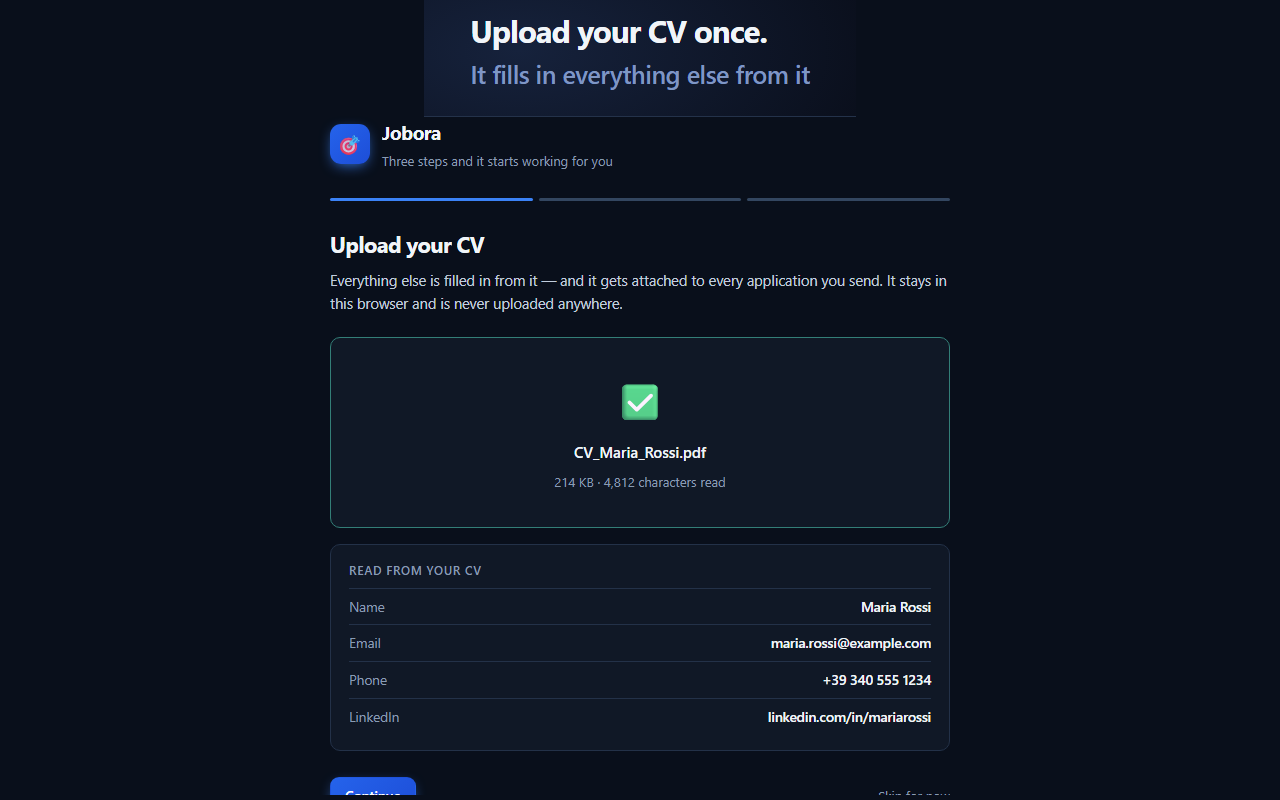
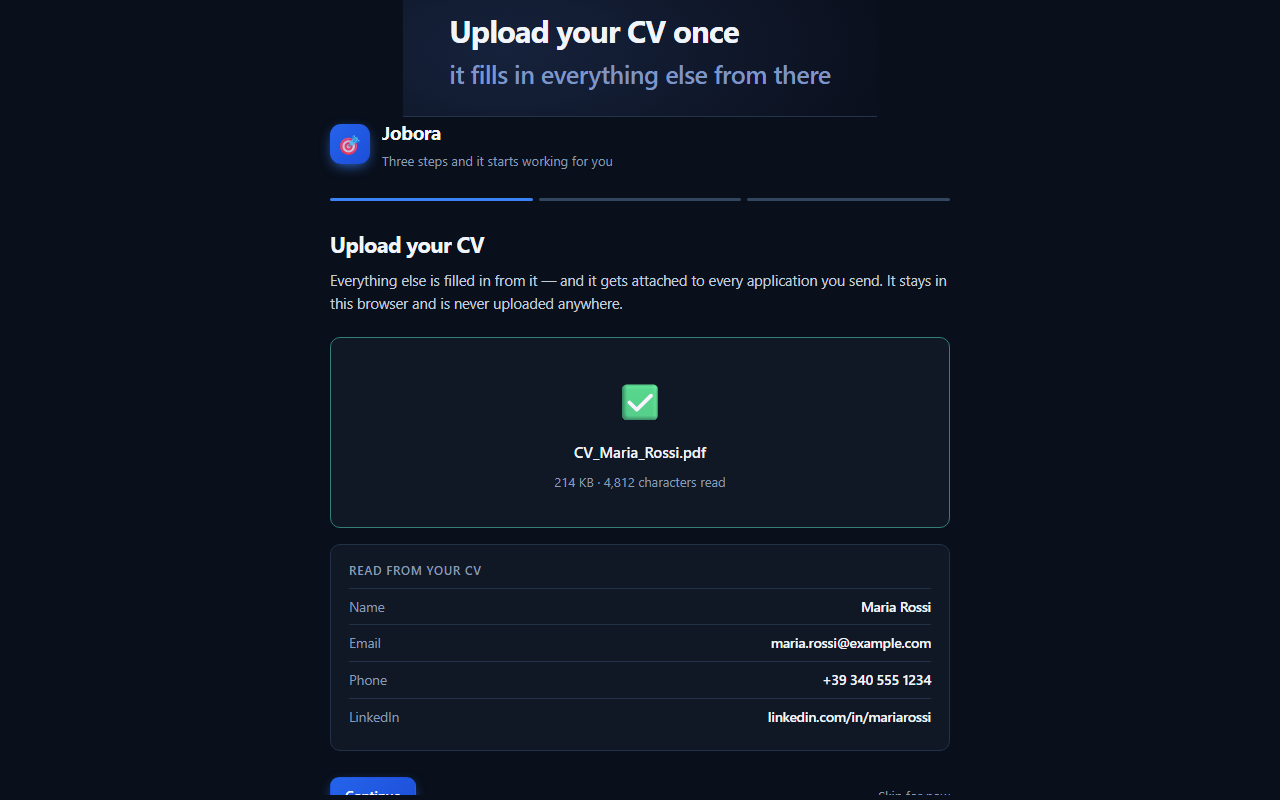
Rewrite the listing so it reads like a person wrote it
The copy had the shape of something generated. Six section headings drawn with
box characters, 103 of them, which no real listing uses and which break in a
font that lacks them. Sentences averaging 92 characters with barely any
variation. Four paragraphs opening with "Crucially" or "Optionally". Em dashes
sprinkled evenly across every surface, in the store text, the policy, the
landing page, the promo tiles and the screenshot captions alike.

None of that is wrong on its own. Together, across every surface at once, it
reads as machine-made before anyone works out why, and a job seeker deciding
whether to trust software with their CV notices.

The description is 3,241 characters now instead of 4,055, with plain headings,
no box drawing, and sentences that run from 13 to 217 characters because that is
what happens when someone writes rather than fills a template. The captions lost
the dashes that were joining two lines which were already two lines. The privacy
policy stopped stacking twenty source names into one sentence with semicolons
and lists them in three short groups instead.

What stayed: the em dash in "Jobora — automatic job search", because that is the
product's name as the manifest declares it.

Changed region(s): [[0.3125, 0.0, 0.6562, 0.125]]

diff --git a/docs/privacy.html b/docs/privacy.html
@@ -20,21 +20,25 @@ a{color:#2f6fe0}strong{color:#111}
 <p>There is no Jobora server and no Jobora account. Your CV, your personal details and your application history are stored by your browser, on your computer, and are never sent to us. We have no way of reading them.</p>
 <h2>What is stored, and where</h2>
 <p>All of the following is kept in your browser's local extension storage (<code>chrome.storage.local</code>) on your device:</p>
-<ul><li>Your CV file and the text extracted from it</li><li>Your name, email, phone, location, LinkedIn and GitHub links, work authorization status and notice period</li><li>Your profile photo, headline and the text you write about yourself. The photo is resized and stored on your device; it is never attached to an application</li><li>Your search preferences: job titles, locations, industries, salary floor, seniority, filters</li><li>Job postings retrieved from public job boards</li><li>Your applications, cover letters and their status history</li><li>An Anthropic API key, if you choose to add one</li><li>An Adzuna application ID and key, if you choose to add your own</li></ul>
+<ul><li>Your CV file and the text extracted from it</li><li>Your name, email, phone, location, LinkedIn and GitHub links, work authorization status and notice period</li><li>Your profile photo, headline and the text you write about yourself. The photo is resized and stored on your device. It is never attached to an application</li><li>Your search preferences: job titles, locations, industries, salary floor, seniority, filters</li><li>Job postings retrieved from public job boards</li><li>Your applications, cover letters and their status history</li><li>An Anthropic API key, if you choose to add one</li><li>An Adzuna application ID and key, if you choose to add your own</li></ul>
 <p>Uninstalling the extension deletes all of it. You can also clear it at any time from the extension's settings or your browser's site data controls.</p>
 <h2>What leaves your device</h2>
 <p>Jobora makes network requests to three kinds of destination, and to nothing else.</p>
-<p><strong>1. Public job listing APIs and pages.</strong> To find jobs, the extension requests publicly available listings from the applicant tracking systems Greenhouse, Lever, Ashby, Workable, SmartRecruiters, Recruitee, Workday, Teamtailor and Breezy; from the job boards Remotive, Arbeitnow, RemoteOK, Jobicy, Himalayas, WorkingNomads, The Muse, We Work Remotely, Cryptocurrency Jobs, Landing.jobs and DevITjobs; and from the Greek sites psf.org.gr, skywalker.gr and ordino.gr. These are ordinary read requests for postings that anyone can see without logging in. <strong>No personal data of yours is included</strong> — not your CV, not your name, not your preferences. The matching happens on your computer after the listings arrive.</p>
+<p><strong>1. Public job listing APIs and pages.</strong> To find jobs, the extension requests publicly available listings from three groups of source.</p>
+<p>Applicant tracking systems: Greenhouse, Lever, Ashby, Workable, SmartRecruiters, Recruitee, Workday, Teamtailor, Breezy.</p>
+<p>Job boards: Remotive, Arbeitnow, RemoteOK, Jobicy, Himalayas, WorkingNomads, The Muse, We Work Remotely, Cryptocurrency Jobs, Landing.jobs, DevITjobs.</p>
+<p>National sites: psf.org.gr, skywalker.gr, ordino.gr.</p>
+<p>These are ordinary read requests for postings that anyone can see without logging in. <strong>No personal data of yours is included.</strong> Not your CV, not your name, not your preferences. The matching happens on your computer after the listings arrive.</p>
 <p>One exception, and only if you set it up: <strong>Adzuna</strong>. If you enter your own Adzuna application ID and key in Settings, requests to <code>api.adzuna.com</code> carry those credentials and the country codes you chose to search, because that is how their API identifies the caller. Your CV, name and contact details are still not sent. Without a key, no request is made to Adzuna at all.</p>
 <p><strong>2. Currency exchange rates.</strong> Once a day the extension requests published exchange rates from <code>open.er-api.com</code>, so that a minimum salary you set in one currency can be compared against a job advertised in another. The request has no parameters and carries no data about you.</p>
-<p><strong>3. Anthropic's API — only if you opt in.</strong> If, and only if, you enter your own Anthropic API key in Settings, Jobora sends the text of your CV, anything you wrote about yourself in your profile, and the description of the specific job to <code>api.anthropic.com</code> in order to write a cover letter for that job. This happens once per application, at your request. Without a key, cover letters are produced from a local template and nothing is sent. That traffic is governed by <a href="https://www.anthropic.com/legal/privacy">Anthropic's privacy policy</a>.</p>
+<p><strong>3. Anthropic's API, only if you opt in.</strong> If, and only if, you enter your own Anthropic API key in Settings, Jobora sends the text of your CV, anything you wrote about yourself in your profile, and the description of the specific job to <code>api.anthropic.com</code> in order to write a cover letter for that job. This happens once per application, at your request. Without a key, cover letters are produced from a local template and nothing is sent. That traffic is governed by <a href="https://www.anthropic.com/legal/privacy">Anthropic's privacy policy</a>.</p>
 <p>Nothing else is transmitted anywhere. There is no analytics, no telemetry, no error reporting, no advertising and no tracking of any kind.</p>
-<h2>The save button on social networks — off unless you turn it on</h2>
+<h2>The save button on social networks, off unless you turn it on</h2>
 <p>Some jobs are only ever posted as a post: a group on Facebook, a thread on Reddit, an update on a page. Jobora can show a "Save to Jobora" button while you are reading such a post, so you can keep it alongside the listings it found itself.</p>
 <p>This is <strong>switched off by default</strong>. Turning it on asks Chrome for permission to run on facebook.com, instagram.com, reddit.com, x.com, twitter.com and threads.net; turning it off withdraws that permission again. Until you turn it on, the extension has no access to those sites at all.</p>
 <p>While it is on, the button reads the text of the post you are looking at only after <strong>you</strong> press it, and shows you exactly what it will keep, in a form you can correct first. Nothing is read in the background, nothing is collected while you browse, and nothing is sent anywhere: what you save is stored on your device like any other listing.</p>
 <h2>Form filling</h2>
-<p>When you press "Fill with Jobora" on an application page, the extension reads that page's form — the labels and field names, so it knows which box wants your phone number and which wants your city — and then writes your details in and attaches your CV file. Both the reading and the writing happen inside your browser, at the moment you press the button. The page's contents are not stored and are not sent anywhere.</p>
+<p>When you press "Fill with Jobora" on an application page, the extension reads that page's form. It looks at the labels and field names, so it knows which box wants your phone number and which wants your city. Then it writes your details in and attaches your CV file. Both the reading and the writing happen inside your browser, at the moment you press the button. The page's contents are not stored and are not sent anywhere.</p>
 <p>The data goes to the employer only when <strong>you</strong> press the employer's own Submit button. Jobora never submits a form on your behalf. Questions it cannot answer safely, such as dropdowns about work authorization, are deliberately left untouched and counted for you.</p>
 <h2>Data we sell or share</h2>
 <p>None. We do not sell your data, transfer it to third parties, or use it for anything other than the function described above. We do not use it for advertising, credit assessment or lending.</p>

diff --git a/store/PRIVACY.html b/store/PRIVACY.html
@@ -20,21 +20,25 @@ a{color:#2f6fe0}strong{color:#111}
 <p>There is no Jobora server and no Jobora account. Your CV, your personal details and your application history are stored by your browser, on your computer, and are never sent to us. We have no way of reading them.</p>
 <h2>What is stored, and where</h2>
 <p>All of the following is kept in your browser's local extension storage (<code>chrome.storage.local</code>) on your device:</p>
-<ul><li>Your CV file and the text extracted from it</li><li>Your name, email, phone, location, LinkedIn and GitHub links, work authorization status and notice period</li><li>Your profile photo, headline and the text you write about yourself. The photo is resized and stored on your device; it is never attached to an application</li><li>Your search preferences: job titles, locations, industries, salary floor, seniority, filters</li><li>Job postings retrieved from public job boards</li><li>Your applications, cover letters and their status history</li><li>An Anthropic API key, if you choose to add one</li><li>An Adzuna application ID and key, if you choose to add your own</li></ul>
+<ul><li>Your CV file and the text extracted from it</li><li>Your name, email, phone, location, LinkedIn and GitHub links, work authorization status and notice period</li><li>Your profile photo, headline and the text you write about yourself. The photo is resized and stored on your device. It is never attached to an application</li><li>Your search preferences: job titles, locations, industries, salary floor, seniority, filters</li><li>Job postings retrieved from public job boards</li><li>Your applications, cover letters and their status history</li><li>An Anthropic API key, if you choose to add one</li><li>An Adzuna application ID and key, if you choose to add your own</li></ul>
 <p>Uninstalling the extension deletes all of it. You can also clear it at any time from the extension's settings or your browser's site data controls.</p>
 <h2>What leaves your device</h2>
 <p>Jobora makes network requests to three kinds of destination, and to nothing else.</p>
-<p><strong>1. Public job listing APIs and pages.</strong> To find jobs, the extension requests publicly available listings from the applicant tracking systems Greenhouse, Lever, Ashby, Workable, SmartRecruiters, Recruitee, Workday, Teamtailor and Breezy; from the job boards Remotive, Arbeitnow, RemoteOK, Jobicy, Himalayas, WorkingNomads, The Muse, We Work Remotely, Cryptocurrency Jobs, Landing.jobs and DevITjobs; and from the Greek sites psf.org.gr, skywalker.gr and ordino.gr. These are ordinary read requests for postings that anyone can see without logging in. <strong>No personal data of yours is included</strong> — not your CV, not your name, not your preferences. The matching happens on your computer after the listings arrive.</p>
+<p><strong>1. Public job listing APIs and pages.</strong> To find jobs, the extension requests publicly available listings from three groups of source.</p>
+<p>Applicant tracking systems: Greenhouse, Lever, Ashby, Workable, SmartRecruiters, Recruitee, Workday, Teamtailor, Breezy.</p>
+<p>Job boards: Remotive, Arbeitnow, RemoteOK, Jobicy, Himalayas, WorkingNomads, The Muse, We Work Remotely, Cryptocurrency Jobs, Landing.jobs, DevITjobs.</p>
+<p>National sites: psf.org.gr, skywalker.gr, ordino.gr.</p>
+<p>These are ordinary read requests for postings that anyone can see without logging in. <strong>No personal data of yours is included.</strong> Not your CV, not your name, not your preferences. The matching happens on your computer after the listings arrive.</p>
 <p>One exception, and only if you set it up: <strong>Adzuna</strong>. If you enter your own Adzuna application ID and key in Settings, requests to <code>api.adzuna.com</code> carry those credentials and the country codes you chose to search, because that is how their API identifies the caller. Your CV, name and contact details are still not sent. Without a key, no request is made to Adzuna at all.</p>
 <p><strong>2. Currency exchange rates.</strong> Once a day the extension requests published exchange rates from <code>open.er-api.com</code>, so that a minimum salary you set in one currency can be compared against a job advertised in another. The request has no parameters and carries no data about you.</p>
-<p><strong>3. Anthropic's API — only if you opt in.</strong> If, and only if, you enter your own Anthropic API key in Settings, Jobora sends the text of your CV, anything you wrote about yourself in your profile, and the description of the specific job to <code>api.anthropic.com</code> in order to write a cover letter for that job. This happens once per application, at your request. Without a key, cover letters are produced from a local template and nothing is sent. That traffic is governed by <a href="https://www.anthropic.com/legal/privacy">Anthropic's privacy policy</a>.</p>
+<p><strong>3. Anthropic's API, only if you opt in.</strong> If, and only if, you enter your own Anthropic API key in Settings, Jobora sends the text of your CV, anything you wrote about yourself in your profile, and the description of the specific job to <code>api.anthropic.com</code> in order to write a cover letter for that job. This happens once per application, at your request. Without a key, cover letters are produced from a local template and nothing is sent. That traffic is governed by <a href="https://www.anthropic.com/legal/privacy">Anthropic's privacy policy</a>.</p>
 <p>Nothing else is transmitted anywhere. There is no analytics, no telemetry, no error reporting, no advertising and no tracking of any kind.</p>
-<h2>The save button on social networks — off unless you turn it on</h2>
+<h2>The save button on social networks, off unless you turn it on</h2>
 <p>Some jobs are only ever posted as a post: a group on Facebook, a thread on Reddit, an update on a page. Jobora can show a "Save to Jobora" button while you are reading such a post, so you can keep it alongside the listings it found itself.</p>
 <p>This is <strong>switched off by default</strong>. Turning it on asks Chrome for permission to run on facebook.com, instagram.com, reddit.com, x.com, twitter.com and threads.net; turning it off withdraws that permission again. Until you turn it on, the extension has no access to those sites at all.</p>
 <p>While it is on, the button reads the text of the post you are looking at only after <strong>you</strong> press it, and shows you exactly what it will keep, in a form you can correct first. Nothing is read in the background, nothing is collected while you browse, and nothing is sent anywhere: what you save is stored on your device like any other listing.</p>
 <h2>Form filling</h2>
-<p>When you press "Fill with Jobora" on an application page, the extension reads that page's form — the labels and field names, so it knows which box wants your phone number and which wants your city — and then writes your details in and attaches your CV file. Both the reading and the writing happen inside your browser, at the moment you press the button. The page's contents are not stored and are not sent anywhere.</p>
+<p>When you press "Fill with Jobora" on an application page, the extension reads that page's form. It looks at the labels and field names, so it knows which box wants your phone number and which wants your city. Then it writes your details in and attaches your CV file. Both the reading and the writing happen inside your browser, at the moment you press the button. The page's contents are not stored and are not sent anywhere.</p>
 <p>The data goes to the employer only when <strong>you</strong> press the employer's own Submit button. Jobora never submits a form on your behalf. Questions it cannot answer safely, such as dropdowns about work authorization, are deliberately left untouched and counted for you.</p>
 <h2>Data we sell or share</h2>
 <p>None. We do not sell your data, transfer it to third parties, or use it for anything other than the function described above. We do not use it for advertising, credit assessment or lending.</p>

diff --git a/docs/index.html b/docs/index.html
@@ -9,13 +9,13 @@
 <meta property="og:type" content="website">
 <meta property="og:url" content="https://georgasp.github.io/jobora/">
 <meta property="og:title" content="Jobora — Automatic Job Hunting">
-<meta property="og:description" content="Upload your CV once. Jobora searches 15 job boards and company career pages on 9 ATS platforms twice a day, scores what fits you (0–100), writes cover letters and fills application forms — all in your browser. Chrome extension + Python, zero dependencies.">
+<meta property="og:description" content="Upload your CV once. Jobora searches 15 job boards and company career pages on 9 ATS platforms twice a day, scores what fits you out of 100, writes cover letters and fills in application forms. All of it in your browser, with no account and no server.">
 <meta property="og:image" content="https://georgasp.github.io/jobora/og.png">
 <meta property="og:image:width" content="1200">
 <meta property="og:image:height" content="630">
 <meta name="twitter:card" content="summary_large_image">
 <meta name="twitter:title" content="Jobora — Automatic Job Hunting">
-<meta name="twitter:description" content="Searches 15 job boards + 9 ATS platforms, scores what fits, writes cover letters & fills forms — all in your browser. Zero dependencies.">
+<meta name="twitter:description" content="Searches 15 job boards and 9 ATS platforms, scores what fits, writes cover letters and fills in forms. All in your browser.">
 <meta name="twitter:image" content="https://georgasp.github.io/jobora/og.png">
 <style>
   :root {
@@ -63,24 +63,24 @@
 <main>
   <div class="mark">🎯</div>
   <h1>Jobora</h1>
-  <p class="lead">A browser extension that searches job boards for you, scores every
-  posting against what you actually want, and fills in the application forms.</p>
+  <p class="lead">A browser extension that searches job boards for you, scores
+  every posting against what you actually want, and fills in the application
+  forms. You still press Submit.</p>
 
   <h2>How it works</h2>
   <ul>
     <li>Reads your CV once and fills in the rest from it.</li>
     <li>Searches twice a day across job boards and company career pages.</li>
-    <li>Scores each posting out of 100 — title, location, salary, freshness — and
-        shows you why, so it is never a black box.</li>
+    <li>Scores each posting out of 100 on title, location, salary and how recent
+        it is, and shows you the working. It is never a black box.</li>
     <li>Prepares the application and fills the form. You review it and press submit.</li>
   </ul>
 
   <h2>What it does not do</h2>
   <div class="card">
-    There is no account, no server, and no analytics. Your CV and your
-    applications are stored on your own machine. The only thing that can ever
-    leave is a cover-letter request to Anthropic — and only if you choose to add
-    your own API key.
+    No account, no server, no analytics. Your CV and your applications are
+    stored on your own machine. One thing can leave: a cover-letter request to
+    Anthropic, and only if you choose to add your own API key.
   </div>
 
   <h2>Links</h2>

diff --git a/store/screenshots/4-onboarding.html b/store/screenshots/4-onboarding.html
@@ -57,7 +57,7 @@ aside { height: 668px !important; }
 </style>
 </head>
 <body>
-<div class="shot-band"><b>Upload your CV once.</b><span>It fills in everything else from it</span></div>
+<div class="shot-band"><b>Upload your CV once</b><span>it fills in everything else from there</span></div>
 <div class="ob">
   <div class="top"><div class="mark">🎯</div>
     <div><b>Jobora</b><span>Three steps and it starts working for you</span></div></div>

diff --git a/store/screenshots/5-profile.html b/store/screenshots/5-profile.html
@@ -36,7 +36,7 @@ aside { height: 668px !important; }
 </style>
 </head>
 <body>
-<div class="shot-band"><b>Your CV, your words, your photo —</b><span>kept on your own computer</span></div>
+<div class="shot-band"><b>Your CV, your words, your photo</b><span>all of it stays on your computer</span></div>
 <div class="app">
 <aside>
   <div class="brand"><div class="mark">🎯</div><div><b>Jobora</b><small>automatic job search</small></div></div>

diff --git a/store/screenshots/1-matches.html b/store/screenshots/1-matches.html
@@ -38,7 +38,7 @@ aside { height: 668px !important; }
 </style>
 </head>
 <body>
-<div class="shot-band"><b>Every job scored out of 100 —</b><span>and it always tells you why</span></div>
+<div class="shot-band"><b>Every job scored out of 100</b><span>and it shows you every reason why</span></div>
 <div class="app">
 <aside>
   <div class="brand"><div class="mark">🎯</div><div><b>Jobora</b><small>automatic job search</small></div></div>

diff --git a/store/screenshots/2-pipeline.html b/store/screenshots/2-pipeline.html
@@ -31,7 +31,7 @@ aside { height: 668px !important; }
 </style>
 </head>
 <body>
-<div class="shot-band"><b>Every application in one place,</b><span>from prepared to offer</span></div>
+<div class="shot-band"><b>One board, from prepared to offer</b><span>drag a card to move it along</span></div>
 <div class="app">
 <aside>
   <div class="brand"><div class="mark">🎯</div><div><b>Jobora</b><small>automatic job search</small></div></div>

diff --git a/store/screenshots/3-autofill.html b/store/screenshots/3-autofill.html
@@ -55,7 +55,7 @@ aside { height: 668px !important; }
 </style>
 </head>
 <body>
-<div class="shot-band"><b>One click fills the form</b><span>and attaches your CV as a real file</span></div>
+<div class="shot-band"><b>One click fills the whole form</b><span>and attaches your CV as a real file</span></div>
 <div class="page">
   <div class="crumb">Remote.com › Careers › Sales</div>
   <h1>Senior Account Manager — EMEA</h1>

diff --git a/store/promo/marquee.html b/store/promo/marquee.html
@@ -154,8 +154,8 @@
 
 <h1>Upload your CV once.</h1>
 
-<div class="sub">It searches twice a day, scores every posting out of 100 and tells
-you why, then fills in the application form. You press Submit.</div>
+<div class="sub">It searches twice a day and scores every posting out of 100.
+Then it fills in the application form. You press Submit.</div>
 
 <div class="pills">
   <b>24 job sources</b>

diff --git a/docs/og.html b/docs/og.html
@@ -190,7 +190,7 @@
 
 <h1>Automatic<br>job hunting</h1>
 
-<div class="sub">Searches, scores &amp; applies — all in your browser</div>
+<div class="sub">It searches, it scores, it applies. You stay in your browser.</div>
 
 <div class="pills">
   <b>24 job sources</b>

diff --git a/store/promo/small.html b/store/promo/small.html
@@ -142,7 +142,7 @@
 
 <h1>Automatic<br>job hunting</h1>
 
-<div class="sub">Searches, scores &amp; applies for you</div>
+<div class="sub">It searches so you do not have to</div>
 
 <span class="pill">24 job sources</span>
 

diff --git a/store/LISTING.md b/store/LISTING.md
@@ -21,86 +21,84 @@ Finds jobs that match you every day and fills in the application forms for you. 
 
 **Detailed description**
 ```
-Job hunting is 90% repetitive admin. Jobora does that part.
+Job hunting is mostly admin. Jobora does that part.
 
-Upload your CV once. From then on Jobora searches twice a day, ranks what
-actually fits you, writes the cover letter, and fills in the application form —
-including attaching your CV as a real file. You review and press Submit.
+Upload your CV once. After that it searches twice a day, ranks what actually
+fits, drafts the cover letter, and fills in the application form with your CV
+attached as a real file. You check it and press Submit.
 
-── HOW IT WORKS ──────────────────────────────────────────
 
-1. Upload your CV. Jobora reads it and fills in your name, email, phone and
-   LinkedIn automatically, then suggests job titles based on your experience.
+HOW IT WORKS
 
-2. Say what you want. Job titles, countries or "Remote", salary floor,
-   industries, seniority. Every filter is yours to set, and every change saves
-   itself as you type.
+1. Upload your CV. Jobora reads your name, email, phone and LinkedIn out of it,
+   then suggests job titles based on what you have done.
 
-3. It searches on its own. Twice a day in the background, across public job
-   boards and thousands of company career pages. You get a notification and a
-   badge count when new roles match.
+2. Say what you want: job titles, countries or "Remote", a salary floor,
+   industries, seniority. Every change saves itself as you type.
 
-4. Apply in about fifteen seconds. Press Apply, the posting opens, press "Fill
-   with Jobora", check the form, submit.
+3. It searches on its own, twice a day, in the background. When something new
+   matches, you get a notification and a number on the toolbar icon.
 
-5. Track everything. A pipeline board from Prepared to Sent, Interview and
-   Offer. Drag cards between stages.
+4. Applying takes about fifteen seconds. Press Apply, the posting opens, press
+   "Fill with Jobora", check the form, submit it yourself.
 
-── NOT ONLY DESK JOBS ────────────────────────────────────
+5. Track it. A board from Prepared to Sent, Interview and Offer. Drag the cards.
 
-Most job tools are built for software engineers. This one covers 31 industries
-and more than 400 professions — care work and construction and kitchens and
-classrooms and stages, not only desks. If the word for your profession is in
-your own language it still finds you, because title matching understands local
-spellings and not only English ones.
 
-── WHY THE MATCHES ARE ACTUALLY GOOD ─────────────────────
+NOT ONLY DESK JOBS
 
-Every job gets a 0-100 score, and Jobora always tells you why: job title
-(40 points), location (25), industry (10), language (10), how fresh the posting
-is (10), salary (5), minus penalties when the seniority is wrong.
+Most job tools are built for software engineers. This one knows 31 industries
+and over 400 professions: care work, construction, kitchens, classrooms, stages.
+It also reads job titles in your own language, so an advert that never uses an
+English word still reaches you.
 
-Crucially, it understands geography. A "Remote" job that is really "US only" is
-dropped if you cannot work in the US — and it says so, instead of wasting your
-time. The regional shorthands employers write instead of country names are
-understood too.
 
-And when nothing matches, it tells you which filter did it, instead of showing
-you a zero and letting you wonder whether the thing is broken.
+WHY THE MATCHES ARE GOOD
 
-── WHERE THE JOBS COME FROM ──────────────────────────────
+Every posting gets a score out of 100, and Jobora shows its working: job title
+is worth 40 points, location 25, industry 10, the language you speak 10, how
+recent the posting is 10, salary 5. Wrong seniority loses points.
 
-Public listings only, from two kinds of place: open job boards, and the career
-pages companies publish through the usual applicant tracking systems. Pick your
-industries and a matching set of employers is tracked for you. A few national
-job sites are included as well, for the work that never reaches an international
-board — clinics, theatres, workshops, hotels.
+It understands geography, which matters more than it sounds. A "Remote" job that
+turns out to mean "US only" gets dropped if you cannot work in the US, and
+Jobora says that is why. It also reads the regional shorthand employers use
+instead of naming countries.
 
-You can also connect your own free key from a job-market data provider, and the
-search widens from the companies it knows to a whole country's market.
+When nothing matches, it names the filter that emptied the list. No more staring
+at a zero and wondering whether the thing is broken.
 
-Jobora does not automate LinkedIn or Indeed accounts. Their terms forbid it
-and it gets people's accounts banned. For the jobs that only ever appear as a
-post in a group or a thread, there is an off-by-default button that saves the
-post you are reading — it never searches those sites on its own.
 
-── YOUR DATA STAYS YOURS ─────────────────────────────────
+WHERE THE JOBS COME FROM
 
-There is no Jobora server and no account. Your CV, your details and your
-application history live in your browser's local storage and are never sent to
-us — we have no way of reading them. No analytics, no telemetry, no tracking.
+Public listings, from two kinds of place: open job boards, and the career pages
+companies publish through the usual applicant tracking systems. Choose your
+industries and a matching set of employers gets watched for you. A few national
+job sites are in there too, for the work that never reaches an international
+board. Clinics. Theatres. Workshops. Hotels.
 
-Optionally, you can add your own Anthropic API key and each cover letter is
-written from your CV and the job description. Without a key, a solid template is
-used and nothing is transmitted anywhere.
+Connect your own free key from a job-market data provider and the search widens
+from the employers it knows to a country's whole market.
 
-── WHAT IT WILL NOT DO ───────────────────────────────────
 
-It never presses Submit. Dropdown questions about work authorization or
-relocation are deliberately left untouched and flagged for you — a wrong answer
-to a legal question costs more than the three seconds it takes you to pick.
-Fields you already filled in are never overwritten, and when required questions
-are still empty it says how many, so you do not send half an application.
+YOUR DATA STAYS YOURS
+
+No account. No server. No analytics. Your CV, your details and your application
+history live in your browser's storage, on your machine, and we have no way of
+reading them.
+
+If you add your own Anthropic API key, each cover letter is written from your CV
+and the job description. Without a key it uses a template and nothing is sent
+anywhere at all.
+
+
+WHAT IT WILL NOT DO
+
+It never presses Submit. Dropdown questions about work authorisation or
+relocation are left alone on purpose and flagged for you, because a wrong answer
+to a legal question costs more than the three seconds it takes to answer it
+yourself. Anything you have already typed is never overwritten. If required
+questions are still empty, it tells you how many, so you do not send half an
+application.
 
 Interface in eight languages. Free, open source, no upsell.
 ```
